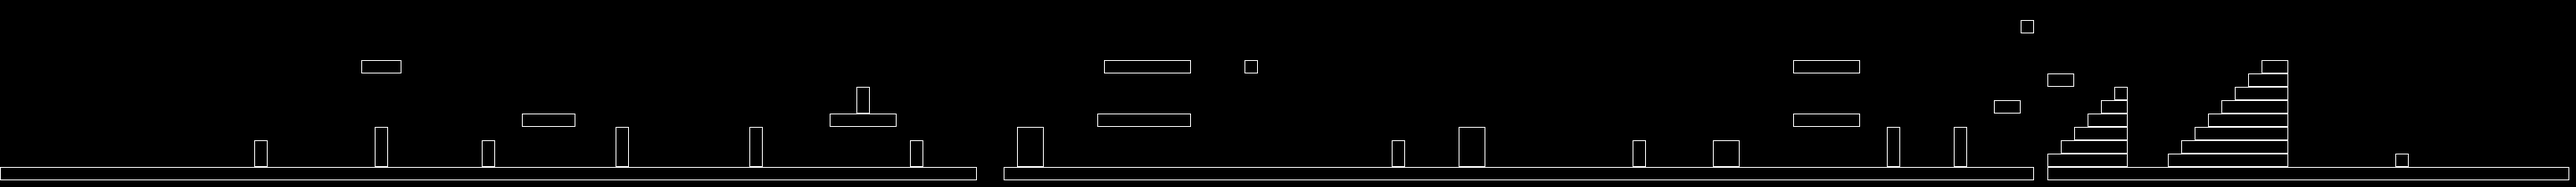
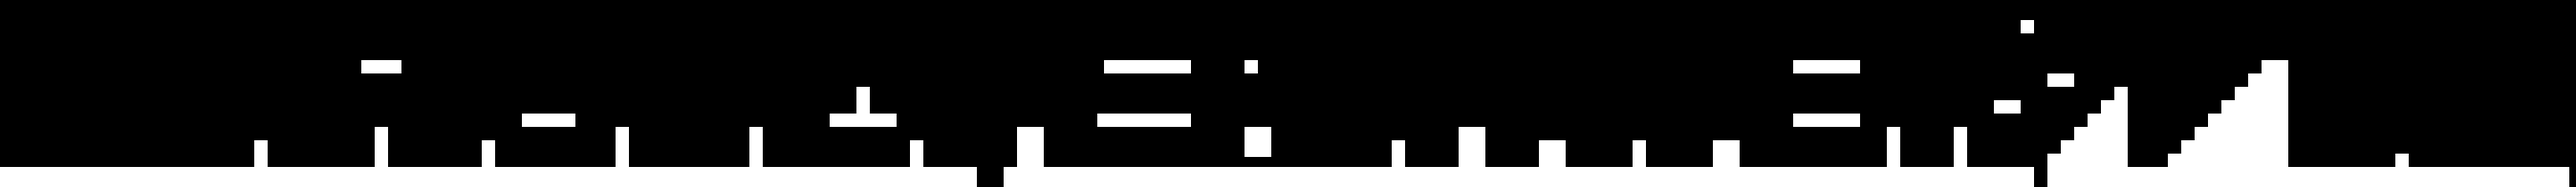
Add base bullet bill management

diff --git a/gamedifficulty/Processing.py b/gamedifficulty/Processing.py
@@ -90,6 +90,8 @@ def CreateDisplacementTexture(ennemyType: EnemyType, detections: list[(int, int,
         return CreateGoombaDisplacementTexture(detections, collisionMask)
     if ennemyType == EnemyType.PIRANHA_PLANT:
         return CreatePiranaPlantDisplacementTexture(detections, collisionMask)
+    if ennemyType == EnemyType.BULLET_BILL:
+        return CreateBulletBillDisplacementTexture(detections, collisionMask)
 
     return np.zeros(collisionMask.shape, dtype=np.uint8)
 
@@ -170,6 +172,28 @@ cv.Mat[cv.CV_8U]:
 
     return result
 
+def CreateBulletBillDisplacementTexture(detections: list[(int, int, int, int)], collisionMask: cv.Mat[cv.CV_8U]) -> cv.Mat[cv.CV_8U]:
+    """
+    Bullet Bill specific implementation of CreateDisplacementTexture
+    """
+    result = np.zeros(collisionMask.shape, dtype=np.uint8)
+
+    for (y, x, sizeY, sizeX) in detections:
+        result[y:y + sizeY, x:x + sizeX] = 1
+
+        direction = -1
+        
+        currX = x
+        
+        while currX >= 0:
+            currX += direction
+
+            if currX + sizeX >= collisionMask.shape[1]:
+                break
+            
+            result[y:y + sizeY, currX:currX + sizeX] = 1
+
+    return result
 
 def CreatePiranaPlantDisplacementTexture(detections: list[(int, int, int, int)], collisionMask: cv.Mat[cv.CV_8U]) -> \
 cv.Mat[cv.CV_8U]:

diff --git a/gamedifficulty/Types.py b/gamedifficulty/Types.py
@@ -11,7 +11,7 @@ class EnemyType(Enum):
     FLYING_FISH = "flying_fish"
     PIRANHA_PLANT = "piranha_plant" # done
     TURTLE = "turtle"
-    # BULLET_BILL = "bullet_bill"
+    BULLET_BILL = "bullet_bill"
 
     def __str__(self):
         return self.value
@@ -35,4 +35,5 @@ class EnemyType(Enum):
                 EnemyType.HAMMER_BRO,
                 EnemyType.FLYING_FISH,
                 EnemyType.PIRANHA_PLANT,
-                EnemyType.TURTLE]
+                EnemyType.TURTLE,
+                EnemyType.BULLET_BILL]
